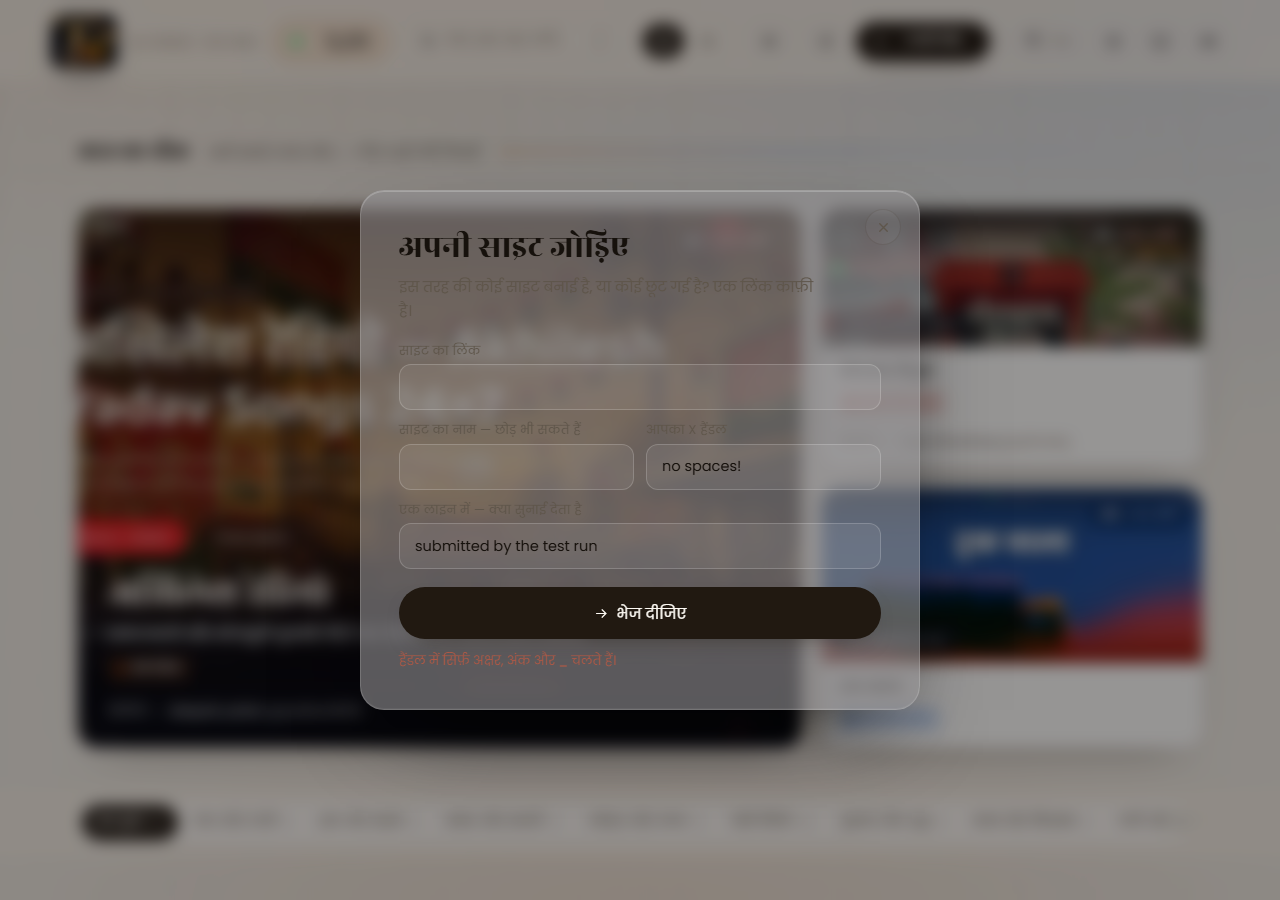
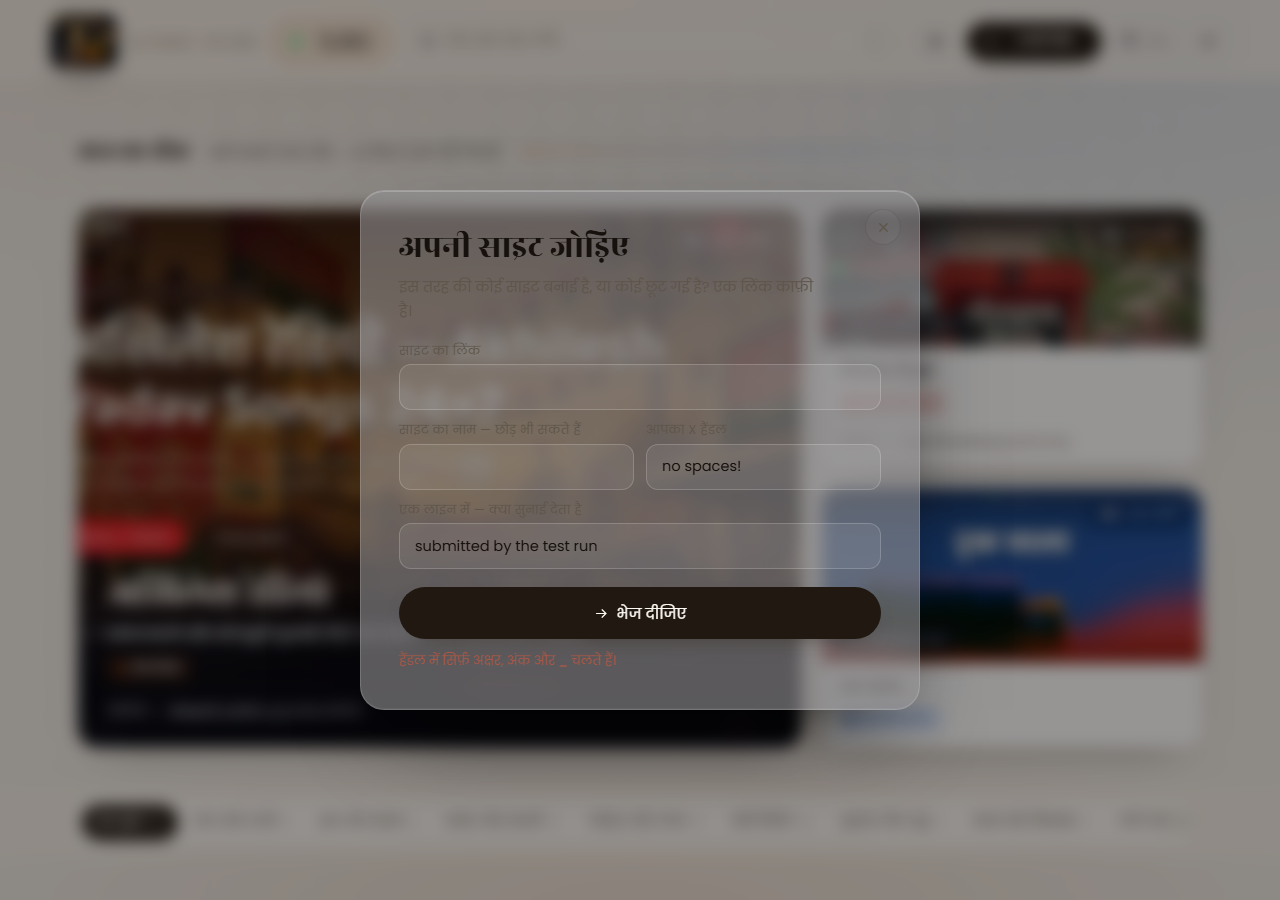
One dial instead of five permanent controls
The masthead carried eleven controls and only three of them were things
a first-time visitor would ever touch. Measured on the first screen:
28 clickable things, 21 of which were controls, so you walked past 21
buttons to reach 3 websites.

View, shuffle, theme, live preview and sound now live behind one dial.
They are moved, not rebuilt, ids intact, so every listener that found
them by id still finds them.

  masthead controls   11 -> 6
  clickable on screen  28 -> 23

The dial is a tuning knob, which is the right object for a page full of
radios: it turns a little under the cursor and a lot when it opens, and
the rows spring in staggered behind it. Same glass as the submit sheet.
Closes on outside click, on Escape, and on scroll, but deliberately not
when you use a control inside it, because people flip two in a row.

Verified through real clicks: every one of the five still works from
inside the panel, and the bar still does not overflow at any width from
390 to 1920.

Also fixes the density audit itself, which counted the closed panel as
clutter - visibility:hidden elements still report a box, so it now asks
the browser whether they are actually painted.

Changed region(s): [[0.6562, 0.0, 0.875, 0.0933], [0.5, 0.0, 0.5625, 0.0933]]

diff --git a/index.html b/index.html
@@ -260,6 +260,69 @@ html[lang="hi"] .bi > b[lang="en"], html[lang="en"] .bi > b[lang="hi"] { visibil
 .bar-main .search { flex: 1 1 200px; min-width: 0; margin-left: auto; }
 .bar-main .search input { width: 100%; min-width: 0; }
 .bar-main .viewtog { flex: none; }
+/* ---- the dial ------------------------------------------------------------
+   Five settings used to sit in the bar permanently: view, shuffle, theme,
+   live preview, sound. Nobody changes the theme twice, so they cost attention
+   on every visit and bought nothing. They live behind one dial now.
+   The dial is a tuning knob, which is the right object for a page full of
+   radios: it turns a little under the cursor and a lot when it opens. */
+.knob-wrap { position: relative; flex: none; }
+.knob .dial, .knob .ticks { transform-origin: 12px 12px; }
+.knob .dial { transition: transform .5s cubic-bezier(.34, 1.4, .55, 1); }
+.knob .ticks { transition: opacity .3s var(--ease); }
+.knob:hover .dial { transform: rotate(-32deg); }
+.knob:hover .ticks { opacity: 1; }
+.knob[aria-expanded="true"] .dial { transform: rotate(148deg); }
+.knob[aria-expanded="true"] {
+  color: var(--text);
+  border-color: color-mix(in srgb, var(--amb-a) 55%, var(--line-2));
+  background: color-mix(in srgb, var(--amb-a) 14%, transparent);
+}
+
+.knob-panel {
+  position: absolute; top: calc(100% + 10px); right: 0; z-index: 40;
+  min-width: 268px; padding: 9px; border-radius: 18px;
+  display: grid; gap: 2px;
+  background: color-mix(in srgb, var(--surface) 62%, transparent);
+  backdrop-filter: blur(26px) saturate(180%); -webkit-backdrop-filter: blur(26px) saturate(180%);
+  border: 1px solid rgba(255,255,255,.14);
+  box-shadow: 0 1px 0 rgba(255,255,255,.16) inset, 0 30px 70px -34px rgba(0,0,0,.95);
+  transform-origin: top right;
+  opacity: 0; transform: translateY(-8px) scale(.94);
+  visibility: hidden; pointer-events: none;
+  transition: opacity .22s var(--ease), transform .34s cubic-bezier(.34, 1.4, .55, 1), visibility .34s;
+}
+:root[data-mode="light"] .knob-panel {
+  background: color-mix(in srgb, var(--surface) 88%, transparent);
+  border-color: rgba(46,34,22,.14);
+  box-shadow: 0 1px 0 rgba(255,255,255,.7) inset, 0 30px 70px -38px rgba(60,40,18,.5);
+}
+.knob-panel.on { opacity: 1; transform: none; visibility: visible; pointer-events: auto; }
+
+.kp-row {
+  display: flex; align-items: center; justify-content: space-between; gap: 14px;
+  padding: 7px 9px 7px 11px; border-radius: 12px;
+  opacity: 0; transform: translateY(-5px);
+}
+.knob-panel.on .kp-row {
+  animation: kpRow .38s cubic-bezier(.34, 1.4, .55, 1) forwards;
+  animation-delay: calc(var(--i) * 38ms + 40ms);
+}
+@keyframes kpRow { to { opacity: 1; transform: none; } }
+.kp-row:hover { background: rgba(255,255,255,.045); }
+:root[data-mode="light"] .kp-row:hover { background: rgba(46,34,22,.05); }
+.kp-l { font: 400 13px/1 var(--sans); color: var(--muted); white-space: nowrap; }
+.kp-c { display: inline-flex; align-items: center; gap: 6px; flex: none; }
+/* the moved controls keep their own look, minus the labels the rows now carry */
+.kp-c .lbl { display: none; }
+.kp-c .viewtog { flex: none; }
+.kp-c .vbtn { padding: 8px 10px; }
+
+@media (prefers-reduced-motion: reduce) {
+  .knob .dial, .knob-panel, .knob-panel.on .kp-row { transition: none; animation: none; }
+  .knob-panel.on .kp-row { opacity: 1; transform: none; }
+}
+
 .act-sep { width: 1px; height: 24px; background: var(--line-2); margin: 0 3px; flex: none; }
 @media (max-width: 1860px) { .viewtog .lbl { display: none; } .vbtn { padding: 9px 11px; } }
 @media (max-width: 1660px) { #shuffle .lbl, #submitbtn .lbl { display: none; } }
@@ -1421,6 +1484,27 @@ footer a:hover { color: var(--saffron); }
       <input id="q" type="search" placeholder="चाय, ट्रक, बस, गली…" autocomplete="off" spellcheck="false" />
       <kbd>/</kbd>
     </label>
+    <div class="top-actions">
+      <button class="btn" id="submitbtn" type="button">
+        <svg viewBox="0 0 24 24" fill="none" stroke="currentColor" stroke-width="1.8" stroke-linejoin="round"><path d="M6 11V6.5A2.5 2.5 0 0 1 8.5 4h7A2.5 2.5 0 0 1 18 6.5V11"/><path d="M4.5 11h15a1.5 1.5 0 0 1 1.5 1.5V17a1 1 0 0 1-1 1H4a1 1 0 0 1-1-1v-4.5A1.5 1.5 0 0 1 4.5 11z"/><path d="M6 18v2M18 18v2"/></svg>
+        <span class="lbl bi"><b lang="hi">अपनी साइट जोड़िए</b><b lang="en">Add your site</b></span>
+      </button>
+      <button class="btn primary" id="tvbtn" type="button" title="पूरी स्क्रीन पर चैनल घुमाइए (T)">
+        <svg viewBox="0 0 24 24" fill="currentColor"><path d="M8 5.5v13l11-6.5z"/></svg>
+        <span class="lbl bi"><b lang="hi">टपरी मोड</b><b lang="en">Tapri mode</b></span>
+      </button>
+      <button class="btn lang" id="lang" type="button" aria-label="Switch to English">
+        <span class="on">हिं</span><span class="sep">/</span><span class="off">EN</span>
+      </button>
+      <div class="knob-wrap">
+        <button class="btn icon knob" id="knob" type="button" aria-expanded="false" aria-controls="knobPanel" aria-label="और सेटिंग">
+          <svg viewBox="0 0 24 24" fill="none" stroke="currentColor" stroke-width="1.7" stroke-linecap="round">
+            <g class="ticks" opacity=".55"><path d="M12 2.5v1.3M19.6 6.8l-1.1.6M19.6 17.2l-1.1-.6M12 21.5v-1.3M4.4 17.2l1.1-.6M4.4 6.8l1.1.6"/></g>
+            <g class="dial"><circle cx="12" cy="12" r="6.1"/><path d="M12 6.6V9"/></g>
+          </svg>
+        </button>
+        <div class="knob-panel" id="knobPanel" role="group" aria-label="और सेटिंग">
+          <div class="kp-row" style="--i:0"><span class="kp-l bi"><b lang="hi">देखने का तरीक़ा</b><b lang="en">View</b></span><span class="kp-c" id="kp-view">
     <div class="viewtog" role="group" aria-label="देखने का तरीक़ा">
       <button class="vbtn" id="v-grid" type="button" data-view="grid" aria-pressed="true">
         <svg viewBox="0 0 24 24" fill="none" stroke="currentColor" stroke-width="1.8"><rect x="3" y="3" width="7.5" height="7.5" rx="1.6"/><rect x="13.5" y="3" width="7.5" height="7.5" rx="1.6"/><rect x="3" y="13.5" width="7.5" height="7.5" rx="1.6"/><rect x="13.5" y="13.5" width="7.5" height="7.5" rx="1.6"/></svg>
@@ -1431,37 +1515,35 @@ footer a:hover { color: var(--saffron); }
         <span class="lbl bi"><b lang="hi">सीट चार्ट</b><b lang="en">Seat chart</b></span>
       </button>
     </div>
-    <div class="top-actions">
-      <button class="btn" id="submitbtn" type="button">
-        <svg viewBox="0 0 24 24" fill="none" stroke="currentColor" stroke-width="1.8" stroke-linejoin="round"><path d="M6 11V6.5A2.5 2.5 0 0 1 8.5 4h7A2.5 2.5 0 0 1 18 6.5V11"/><path d="M4.5 11h15a1.5 1.5 0 0 1 1.5 1.5V17a1 1 0 0 1-1 1H4a1 1 0 0 1-1-1v-4.5A1.5 1.5 0 0 1 4.5 11z"/><path d="M6 18v2M18 18v2"/></svg>
-        <span class="lbl bi"><b lang="hi">अपनी साइट जोड़िए</b><b lang="en">Add your site</b></span>
-      </button>
+          </span></div>
+          <div class="kp-row" style="--i:1"><span class="kp-l bi"><b lang="hi">कुछ भी सुनाओ</b><b lang="en">Surprise me</b></span><span class="kp-c" id="kp-shuffle">
       <button class="btn" id="shuffle" type="button" title="कोई भी एक साइट खोलिए (R)">
         <svg viewBox="0 0 24 24" fill="none" stroke="currentColor" stroke-width="2" stroke-linecap="round" stroke-linejoin="round"><path d="M16 3h5v5M4 20 21 3M21 16v5h-5M15 15l6 6M4 4l5 5"/></svg>
         <span class="lbl bi"><b lang="hi">कुछ भी सुनाओ</b><b lang="en">Surprise me</b></span>
       </button>
-      <button class="btn primary" id="tvbtn" type="button" title="पूरी स्क्रीन पर चैनल घुमाइए (T)">
-        <svg viewBox="0 0 24 24" fill="currentColor"><path d="M8 5.5v13l11-6.5z"/></svg>
-        <span class="lbl bi"><b lang="hi">टपरी मोड</b><b lang="en">Tapri mode</b></span>
-      </button>
-      <span class="act-sep" aria-hidden="true"></span>
-      <button class="btn lang" id="lang" type="button" aria-label="Switch to English">
-        <span class="on">हिं</span><span class="sep">/</span><span class="off">EN</span>
-      </button>
+          </span></div>
+          <div class="kp-row" style="--i:2"><span class="kp-l bi"><b lang="hi">दिन या रात</b><b lang="en">Day or night</b></span><span class="kp-c" id="kp-theme">
       <button class="btn icon" id="theme" type="button" aria-label="दिन वाला रूप">
         <span class="morph">
           <svg class="m-a" viewBox="0 0 24 24" fill="none" stroke="currentColor" stroke-width="1.8" stroke-linecap="round" stroke-linejoin="round"><path d="M20 14.5A8.2 8.2 0 0 1 9.5 4 8.4 8.4 0 1 0 20 14.5z"/></svg>
           <svg class="m-b" viewBox="0 0 24 24" fill="none" stroke="currentColor" stroke-width="1.8" stroke-linecap="round" stroke-linejoin="round"><circle cx="12" cy="12" r="4.2"/><path d="M12 2.6v2.2M12 19.2v2.2M4.2 12H2M22 12h-2.2M6.3 6.3 4.8 4.8M19.2 19.2l-1.5-1.5M17.7 6.3l1.5-1.5M4.8 19.2l1.5-1.5"/></svg>
         </span>
       </button>
+          </span></div>
+          <div class="kp-row" style="--i:3"><span class="kp-l bi"><b lang="hi">लाइव झलक</b><b lang="en">Live preview</b></span><span class="kp-c" id="kp-live">
       <button class="btn icon" id="livebtn" type="button" aria-pressed="true" aria-label="लाइव झलक" title="हॉवर करने पर असली साइट चलती हुई दिखे">
         <svg viewBox="0 0 24 24" fill="none" stroke="currentColor" stroke-width="1.8" stroke-linecap="round" stroke-linejoin="round"><rect x="2.5" y="4.5" width="19" height="13" rx="2.4"/><path d="M8 20.5h8"/><path class="lv-off" d="M4 4l16 16"/></svg>
       </button>
+          </span></div>
+          <div class="kp-row" style="--i:4"><span class="kp-l bi"><b lang="hi">आवाज़</b><b lang="en">Sound</b></span><span class="kp-c" id="kp-sound">
       <button class="btn icon" id="sound" type="button" aria-pressed="true" aria-label="आवाज़ बंद कीजिए">
         <svg viewBox="0 0 24 24" fill="none" stroke="currentColor" stroke-width="1.9" stroke-linecap="round" stroke-linejoin="round">
           <path d="M11 5 6 9H3v6h3l5 4z"/><path class="wave" d="M15.5 8.5a5 5 0 0 1 0 7M18.5 5.5a9 9 0 0 1 0 13"/><path class="cross" d="M22 9l-5 6M17 9l5 6"/>
         </svg>
       </button>
+          </span></div>
+        </div>
+      </div>
     </div>
   </div>
 
@@ -2726,6 +2808,37 @@ function setView(v) {
 document.getElementById('submitbtn').addEventListener('pointerenter', () => Sfx.hover());
 document.getElementById('submit-close').addEventListener('click', () => Submit.hide());
 document.getElementById('f-send').addEventListener('pointerenter', () => Sfx.hover());
+
+/* --- the dial: opens the settings that used to crowd the bar --- */
+(() => {
+  const btn = document.getElementById('knob');
+  const panel = document.getElementById('knobPanel');
+  if (!btn || !panel) return;
+
+  const open = () => {
+    panel.classList.add('on');
+    btn.setAttribute('aria-expanded', 'true');
+    Sfx.tick();
+  };
+  const shut = () => {
+    if (!panel.classList.contains('on')) return;
+    panel.classList.remove('on');
+    btn.setAttribute('aria-expanded', 'false');
+  };
+
+  btn.addEventListener('click', (e) => {
+    e.stopPropagation();
+    panel.classList.contains('on') ? shut() : open();
+  });
+  btn.addEventListener('pointerenter', () => Sfx.hover());
+
+  // clicking a control inside should not close the panel — people flip two of
+  // them in a row — but clicking anywhere else should
+  panel.addEventListener('click', e => e.stopPropagation());
+  document.addEventListener('click', shut);
+  addEventListener('keydown', e => { if (e.key === 'Escape') shut(); });
+  addEventListener('scroll', shut, { passive: true });
+})();
 
 /* --- sending a site, straight to the database --- */
 (() => {

diff --git a/test-knob.js b/test-knob.js
@@ -1,0 +1,61 @@
+/* Does the dial work, and do the five moved controls still do their jobs from
+   inside it? Each one is exercised through a real click. */
+const { chromium } = require('E:/Claude Stuff/motion-kit/node_modules/playwright');
+const path = require('path');
+(async () => {
+  const b = await chromium.launch();
+  const p = await b.newPage({ viewport: { width: 1440, height: 900 } });
+  const errs = [];
+  p.on('pageerror', e => errs.push(String(e.message).slice(0, 110)));
+  await p.goto('file:///' + path.join(__dirname, 'index.html').split(path.sep).join('/'), { waitUntil: 'load', timeout: 60000 });
+  await p.waitForTimeout(2200);
+
+  const state = () => p.evaluate(() => ({
+    open: document.getElementById('knobPanel').classList.contains('on'),
+    expanded: document.getElementById('knob').getAttribute('aria-expanded'),
+    mode: document.documentElement.getAttribute('data-mode'),
+    view: document.getElementById('v-seats').getAttribute('aria-pressed'),
+    sound: document.getElementById('sound').getAttribute('aria-pressed'),
+    live: document.getElementById('livebtn').getAttribute('aria-pressed'),
+    panelVisible: getComputedStyle(document.getElementById('knobPanel')).visibility
+  }));
+
+  const before = await state();
+  console.log('closed at load        ', !before.open && before.panelVisible === 'hidden' ? 'ok' : 'FAIL');
+
+  await p.click('#knob'); await p.waitForTimeout(500);
+  let s = await state();
+  console.log('opens on click        ', s.open && s.expanded === 'true' && s.panelVisible === 'visible' ? 'ok' : 'FAIL');
+
+  await p.click('#theme'); await p.waitForTimeout(400);
+  const afterTheme = await state();
+  console.log('theme still toggles   ', afterTheme.mode !== before.mode ? 'ok  (' + before.mode + ' -> ' + afterTheme.mode + ')' : 'FAIL');
+  console.log('stays open after use  ', afterTheme.open ? 'ok' : 'FAIL');
+
+  await p.click('#sound'); await p.waitForTimeout(300);
+  const afterSound = await state();
+  console.log('sound still toggles   ', afterSound.sound !== before.sound ? 'ok' : 'FAIL');
+
+  await p.click('#livebtn'); await p.waitForTimeout(300);
+  const afterLive = await state();
+  console.log('live still toggles    ', afterLive.live !== before.live ? 'ok' : 'FAIL');
+
+  await p.click('#v-seats'); await p.waitForTimeout(900);
+  const afterView = await state();
+  console.log('seat chart still opens', afterView.view === 'true' ? 'ok' : 'FAIL');
+  await p.click('#v-grid'); await p.waitForTimeout(600);
+
+  await p.click('body', { position: { x: 700, y: 700 } }); await p.waitForTimeout(500);
+  console.log('closes on outside click', (await state()).open ? 'FAIL' : 'ok');
+
+  await p.click('#knob'); await p.waitForTimeout(400);
+  await p.keyboard.press('Escape'); await p.waitForTimeout(400);
+  console.log('closes on Escape      ', (await state()).open ? 'FAIL' : 'ok');
+
+  // shuffle opens a tab, so just confirm it is reachable and wired
+  await p.click('#knob'); await p.waitForTimeout(400);
+  console.log('shuffle present       ', await p.isVisible('#shuffle') ? 'ok' : 'FAIL');
+
+  console.log('\njs errors:', errs.length ? errs.slice(0, 3) : 'none');
+  await b.close();
+})();

diff --git a/density.js b/density.js
@@ -11,8 +11,15 @@ const path = require('path');
 
   const r = await p.evaluate(() => {
     const vw = innerWidth, vh = innerHeight;
-    const inView = n => { const b = n.getBoundingClientRect();
-      return b.width > 0 && b.height > 0 && b.top < vh && b.bottom > 0 && b.left < vw && b.right > 0; };
+    // visibility:hidden and opacity:0 elements still report a box, so ask the
+    // browser whether they are really painted — otherwise a closed panel counts
+    // as clutter that nobody can see
+    const inView = n => {
+      const b = n.getBoundingClientRect();
+      if (!(b.width > 0 && b.height > 0 && b.top < vh && b.bottom > 0 && b.left < vw && b.right > 0)) return false;
+      if (n.checkVisibility) return n.checkVisibility({ checkOpacity: true, checkVisibilityCSS: true });
+      return true;
+    };
 
     const bar = document.querySelector('.bar-main');
     const barControls = bar ? [...bar.querySelectorAll('button, a, input, select')].filter(inView).length : 0;
